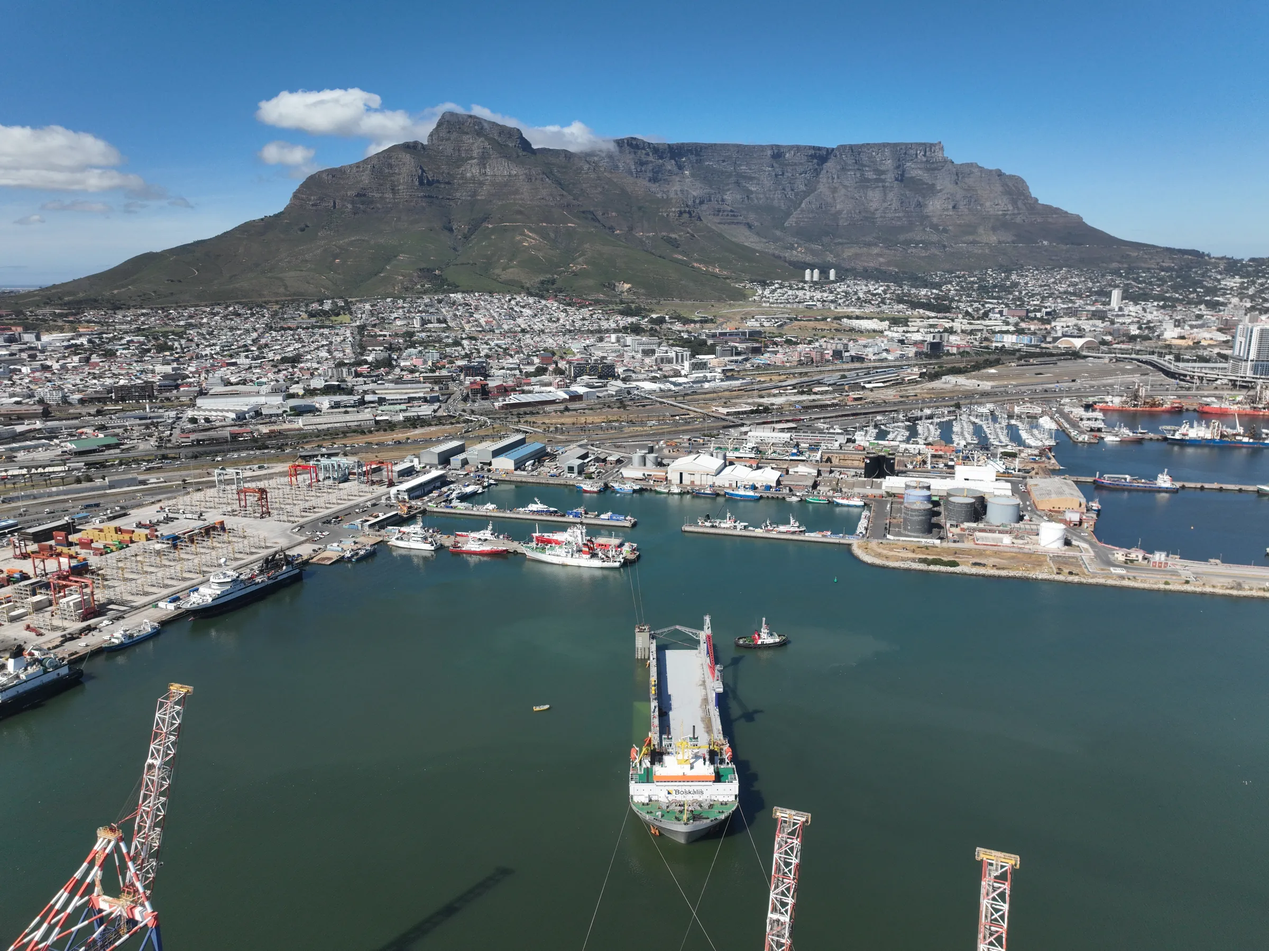
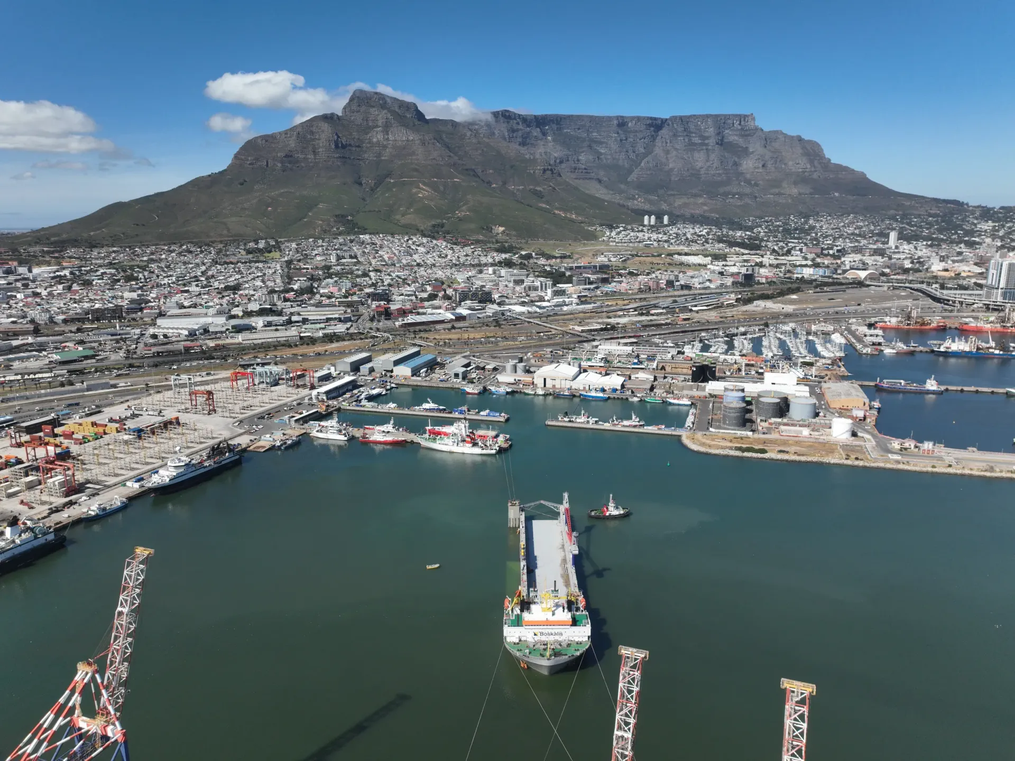
LCP: optimise the three Cloudflare-RUM-flagged offenders
Cloudflare RUM (May 28-29 window) surfaced three pages where LCP sat in
the 2.5-3.8 s band:

- Cape Town port hero — 2400x1798 WebP, 477 KB. Resize to 1920x1440 and
  re-encode at q80 → 285 KB (-40%). Same path, picks up automatically
  on every port-page render via the existing <picture> source.
- Dock Titan video poster — was JPG, no WebP sibling. Add WebP at q82
  (-5%, 79 KB vs 83 KB) and point videoEmbed.posterSrc at it. The save
  isn't dramatic but the next step compounds the win.
- Orca video poster — same treatment, JPG → WebP (-16%, 125 KB vs 149).

The bigger lever: video posters sit deep in the article body, so the
browser doesn't discover them until <video> is parsed. Add a generic
preloadImage prop to BaseLayout that emits a high-priority <link
rel="preload"> in <head>, then wire it from the project [slug] template
to the videoEmbed poster. That pulls the poster into the critical path
in parallel with CSS/JS parse — same trick the homepage uses for its
hero — and should close most of the LCP gap on video-led case studies.

diff --git a/src/data/projects.ts b/src/data/projects.ts
@@ -172,6 +172,8 @@ Trusted by LD TravOcean for one of the most significant infrastructure projects 
     summary: "Onshore coordination of one of the largest semi-submersible heavy lift operations ever staged through the Port of Cape Town.",
     videoEmbed: {
       src: "/videos/dock-titan-cape-town-reunion.mp4",
+      // Optimised WebP poster — see Orca entry for rationale.
+      posterSrc: "/images/projects/dock-titan-cape-town-reunion.webp",
       description: "The Titan Floating Dock being uplifted by Boskalis's semi-submersible heavy-lift vessel MV Transshelf at the Port of Cape Town, 2025 — onshore coordination by Afrishore for Piriou Naval Services and the Port of Réunion.",
       durationISO: "PT52S",
       width: 1280,
@@ -357,6 +359,11 @@ For Afrishore, the Deepsea Mira programmes demonstrate what Namibia's offshore s
     summary: "Five parallel regulatory workstreams cleared inside a 23-day window for the semi-submersible Orca's single-voyage delivery tow from Mossel Bay to Alang, India.",
     videoEmbed: {
       src: "/videos/orca-mossel-bay-alang-2022.mp4",
+      // Use the optimised WebP poster (16% lighter than the JPG hero
+      // and explicitly preloaded in <head> via BaseLayout — closes the
+      // LCP discovery delay that otherwise had this poster firing at
+      // ~3.5 s in Cloudflare RUM).
+      posterSrc: "/images/projects/petrosa-orca-remobilisation.webp",
       description: "The Orca semi-submersible under tow by AHTS Hulk II out of Mossel Bay anchorage, February 2022 — start of the single-voyage delivery to Alang, India.",
       durationISO: "PT30S",
       width: 1280,
